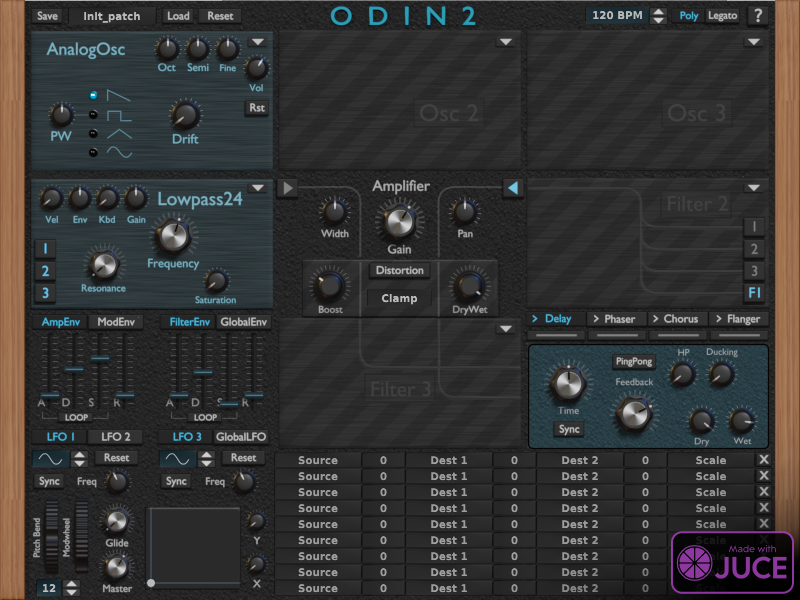
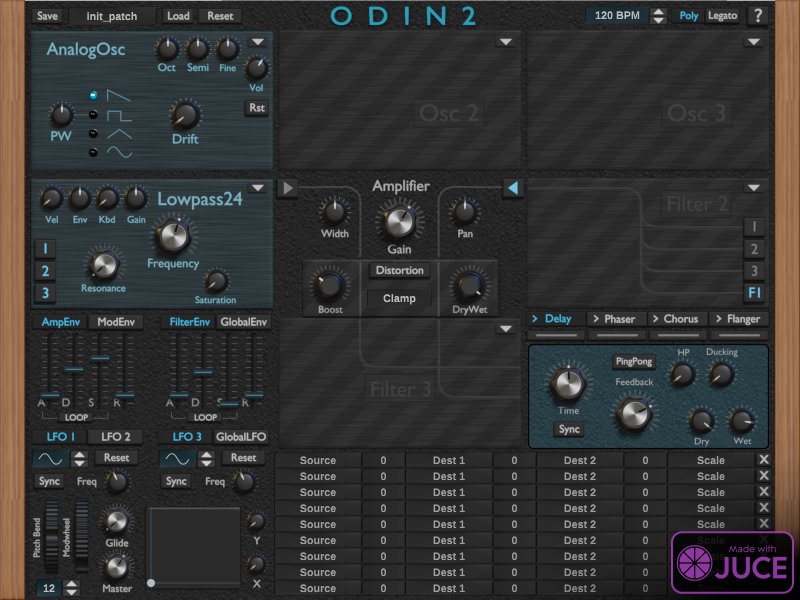
dimmed brightness of XYPad stripes

diff --git a/Source/XYPadComponent.cpp b/Source/XYPadComponent.cpp
@@ -48,7 +48,7 @@ void XYPadComponent::paint(Graphics &g) {
 	    getHeight() - HANDLE_DIAMETER - (HANDLE_INLAY + m_value_y * (getHeight() - HANDLE_DIAMETER - 2 * HANDLE_INLAY));
 	if (!m_vector_pad) {
 	 	//g.setColour(Colour(0, 10, 30));
-		 g.setColour(Colour(80, 120, 160));
+		 g.setColour(Colour(60, 90, 120));
 	 	g.drawLine(m_inlay, y_handle + HANDLE_DIAMETER / 2, getWidth() - m_inlay, y_handle + HANDLE_DIAMETER / 2);
 	 	g.drawLine(x_handle + HANDLE_DIAMETER / 2, m_inlay, x_handle + HANDLE_DIAMETER / 2, getHeight() - m_inlay);
 	}
